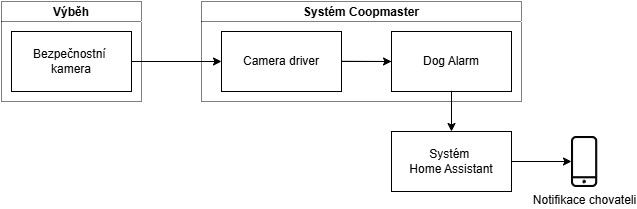
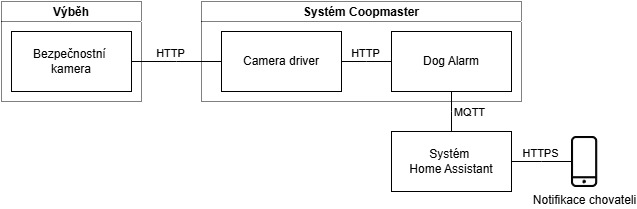
finálně nastřelený popis toho jak jednotlivé moduly spolupracují aby splnili požadavky dané uživatelskými storkami

diff --git a/doc-document-example/text1/text-03-prakticka.tex b/doc-document-example/text1/text-03-prakticka.tex
@@ -22,18 +22,32 @@ Rozhodlo se tedy, že aplikace bude uživateli poskytovat následující funkce
     \item Poskytování dat o teplotě a vlhkosti
 \end{itemize}
 
+\newpage
 \section{Návrh architektury a volba technologií}\label{sec:navrh-architektury-a-volba-technologii}
 Díky tomu, že si přesně určíme, kdo je cílový uživatel naší aplikace, a k tomu dáme do hromady, co uživatel od naší aplikace očekává.
 Jsme tedy nyní schopni bez větších problémů teoreticky navrhnout architekturu našeho systému a přesně popsat požadovanou funkcionalitu, jakou budou disponovat jeho jednotlivé části.
 Tato sekce se bude zabývat analýzou a návrhem architektury systému Coopmaster dle požadavků ze sekce~\ref{sec:rozvrzeni-person}.
 
-\subsection{Architektura dle jednotlivých potřeb uživatele}\label{subsec:microservices}
+\subsection{Šlužby dle jednotlivých potřeb uživatele}\label{subsec:microservices}
 Jako teoretický model na základě kterého, budeme organizovat a třídit funkcionalitu, jsem zvolil mikroservisní architekturu(sekce~\ref{sec:microservice-architecture}).
-Tento způsob rozvržení zodpovědnosti částí systému jsem zvolil, díky velké možnosti rozšíření, zapouzdření funkcionality a snadné úpravě jednotlivých služeb bez nutnosti kompletního restartu systému případně znovunasazení.
+Tento způsob rozvržení zodpovědnosti částí systému jsem zvolil, díky velké možnosti rozšíření, zapouzdření funkcionality a snadné úpravě jednotlivých služeb bez nutnosti kompletního restartu systému případně znovunasazení.\newline
 Jako programovací jazyk pro tvorbu služeb je zvolen programovací jazyk Python(sekce~\ref{sec:python}).
-Python byl vybrán kvůli jeho univerzálnosti, snadné syntaxi a podpoře ze strany vývojářů a komunity.
-Pro realizaci, konfiguraci a síťování mikroservistní architektury je použit Docker Engine(sekce~\ref{sec:kontejnerizace}) společně s rozšířením Docker Compose.
-%\subsubsection{Zjednodušení implementace uživatelského rozhraní a automatizace úkolů}
+Python byl vybrán kvůli jeho univerzálnosti, snadné syntaxi a podpoře ze strany vývojářů a komunity.\newline
+Pro realizaci, konfiguraci a síťování mikroservistní architektury je použit Docker Engine(sekce~\ref{sec:kontejnerizace}) společně s rozšířením Docker Compose.\newline
+Na základě předchozích rozhodnutí jsem tedy systém rozdělil do jednotlivých mikroslužeb, tak aby vznikla robustní a rozšiřitelná mikroservisní architektura a byly splněny všechyn uživatelské požadavky, které jsme si určili (\ref{sec:rozvrzeni-person}).\newline
+Bylo tedy navrženo 8 služeb, které obsahují námi naprogramovanou funkcionalitu a dohromady společně s hardwarovými prvky tvoří systém Coopmaster.
+\begin{itemize}
+    \item Camera driver (\ref{subsec:camera-driver})
+    \item Scale driver (\ref{subsec:scale-driver})
+    \item Room driver (\ref{subsec:room-driver})
+    \item Health checker (\ref{subsec:health-checker})
+    \item Room assistant (\ref{subsec:room-assistant})
+    \item Nest watcher (\ref{subsec:nest-watcher})
+    \item Dog alarm (\ref{subsec:dog-alarm})
+    \item Chicken watch guard (\ref{subsec:chicken-watch-guard})
+\end{itemize}
+
+\subsection{Systému pro uživatelské rozhraní a automatizaci}\label{subsec:systemu-pro-uzivatelske-rozhrani-a-automatizaci}
 Podstatnou otázkou bylo, zda se pouštět do tvorby kompletně vlastního systému pro uživatelského rozhraní a automatizaci.
 Po zvážení časové náročnosti, technologické náročnosti a komplexnosti takového systému, mi bylo jasné, že tudy cesta nepovede.
 Bylo tedy třeba najít open source systém, který již touto funkcionalitou disponuje.
@@ -41,62 +55,14 @@ Nakonec jsem zvolil systém Home Assistant, protože jsem s ním již dříve pr
 Home Assistant má na internetu také rozsáhlou podporu a komunitu s množstvým nápadů a již hotových řešení pro inspiraci.
 Popis toho, jak je nakonfigurováno uživatelské rozhraní v Home Assistantovi, je popsáno v sekci~\ref{subsec:tvorba-gui-rozhrani}.
 
-\subsubsection{Ovládání světla a poskytování dat o teplotě a vlhkosti}
-%todo popis proč a jak to plní uživatelskou storku, popis jaké jsou vazby, jak jednotlivé moduly spolupracují, vysvětlení jak jsem se dobral k tomuto řešení
-Jsou použity částí Řídící jednotka, Moduly systému Coopmaster(Room Driver a Room Assistant) a systém Home Assistant.
-\begin{figure}[h]
-    \centering
-    \includegraphics[width=\textwidth]{img/svetlo_teplo_vlhkost}
-    \caption{Mechanismus pro ovládání světla a poskytování dat o teplotě a vlhkosti}
-    \label{fig:svetlo_teplo_vlhkost}
-\end{figure}
-\subsubsection{Automatizace dvířek}
-%todo popis proč a jak to plní uživatelskou storku, popis jaké jsou vazby, jak jednotlivé moduly spolupracují, vysvětlení jak jsem se dobral k tomuto řešení
-Jsou použity částí Kamerový systém, Elektrická dvířka, Moduly systému Coopmaster(Camera Driver, Chicken Watch Guard, Room Driver a Room Assistant) a systém Home Assistant.
-\begin{figure}[h]
-    \centering
-    \includegraphics[width=\textwidth]{img/automatizace_dvirek}
-    \caption{Mechanismus bezpečného zavření dvířek}
-    \label{fig:automatizace_dvirek}
-\end{figure}
-\subsubsection{Detekce vetřelců}
-%todo popis proč a jak to plní uživatelskou storku, popis jaké jsou vazby, jak jednotlivé moduly spolupracují, vysvětlení jak jsem se dobral k tomuto řešení
-Jsou použity částí Kamerový systém, Moduly systému Coopmaster(Camera Driver a Dog Alarm) a systém Home Assistant.
-\begin{figure}[h]
-    \centering
-    \includegraphics[width=\textwidth]{img/detekce_vetrelcu}
-    \caption{Mechanismus detekce vetřelců}
-    \label{fig:detekce_vetrelcu}
-\end{figure}
-\subsubsection{Vizualizace stavů hnízd}
-%todo popis proč a jak to plní uživatelskou storku, popis jaké jsou vazby, jak jednotlivé moduly spolupracují, vysvětlení jak jsem se dobral k tomuto řešení
-Jsou použity částí Digitální Váha, Moduly systému Coopmaster(Scale Driver a Nest Watcher) a systém Home Assistant.
-\begin{figure}[h]
-    \centering
-    \includegraphics[width=\textwidth]{img/vizualizace_stavu_hnizd}
-    \caption{Mechanismus vizualizace stavů hnízd}
-    \label{fig:vizualizace_stavu_hnizd}
-\end{figure}
-%Na základě určeného způsobu zapouzdření funkcionality je architektura rozdělena do následujících služeb, které jsou pojmenovány dle jejich účelu
-%\begin{itemize}
-%    \item Camera driver
-%    \item Scale driver
-%    \item Room driver
-%    \item Health checker
-%    \item Room assistant
-%    \item Nest watcher
-%    \item Dog alarm
-%    \item Chicken watch guard
-%\end{itemize}
-
 \subsection{Komunikace mezi Backendem a Frontendem}\label{subsec:komunikace-mezi-backendem-a-frontendem}
-Je třeba zajistit komunikaci mezi Home Assistantem a Službami.
+Je třeba zajistit komunikaci mezi Home Assistantem a Coopmaster službami.
 Tuto úlohu musíme přijmout velice zodpovědně a navrhnout řešení, které půjde opět snadno rozšířit a modifikovat.
 Nelze proto použít klasické HTTP(sekce~\ref{sec:http-rest}), z toho důvodu že bychom komunikaci vázali na buď doménové jméno a port nebo ip adresu a port.
 Toto řešení má problém v tom, že pokud bychom potřebovali změnit, buď umístění částí služeb nebo port jedné ze služeb, bylo by třeba překonfigurovat i home assistanta.
 Dalším problém nastane, když potřebujeme z některé ze služeb poslat například notifikaci do Home Assistanta, je pro to potřeba, aby jednotlivé služby věděli, kde na síti Home Assistant běží, což je věc, která se může měnit, a museli bychom naopak přenastavovat jednotlivé služby.
 Jako řešení se nabízí použít messaging konkrétně třeba technologii MQTT(sekce~\ref{sec:mqtt}).
-Tato technologie se běžně používá u IoT zařízení a pro naše použití bude vynikajícím řešením.
+Tato technologie se běžně používá u IoT zařízení a pro naše použití je vynikajícím řešením.
 
 \subsection{Hardwarová zařízení}\label{subsec:hardwarova-zarizeni}
 Tuto sekci je velmi důležité dobře a správně navrhnout, protože náš systém bude pracovat s daty z reálného světa.
@@ -108,6 +74,7 @@ Musíme tedy navrhnout a realizovat několik zařízení, která společně budo
     \item snímání teploty a vlhkosti
     \item snímání scén v kurníku a ve výběhu
 \end{itemize}
+
 \subsubsection{Snímání stavů hnízd}
 Všechny případy, které potřebujeme v kontextu našeho hnízda řešit se dají rozpoznat na základě hmotnosti hnízda.
 Pokud je v hnízdě slepice, hnízdo bude hodně zatížené oproti počátečnímu prázdnému stavu.
@@ -132,6 +99,84 @@ Na základě předchozí analýzy je vhodné použít venkovní ip kameru.
 Ip kamera s dostatečným krytím, dobrou kvalitou obrazu a velkým zorným polem bude snadná na instalaci, je cenově dostupná a poskytuje dostatečně kvalitní data pro naše použití při detekci objektů.
 Podrobnosti ohledně výběru kamery se nachází v sekci~\ref{subsec:kamerovy-system}
 
+\subsection{Spolupráce modulů dle požadavků uživatele}\label{subsec:schematicka-vyjadreni-zavislosti-jednotlivych-modulu}
+
+\subsubsection{Ovládání světla, data o teplotě a vlhkosti}
+Tato sekce je důležitá pro chovatele, aby měl na dálku přehled o podmínkách v kurníku, a to převážně o teplotě.
+Dalším z požadavkům bylo dálkové ovládání a automatizace světla čehož se tato sekce také dotýká.
+Graficky jsou použité moduly a jejich závislosti vyjádřeny v obrázku~\ref{fig:svetlo_teplo_vlhkost}.\newline
+Fyzický prvek, který dokáže ovládat světlo a zpřístupňuje systému informace o teplotě a vlhkosti, je Řídící jednotka.
+Ta je přes usb sběrnici propojena s Room Driverem, který je již součástí docker composu Coopmasteru.
+Room Driver je použit jako mezičlen pro komunikaci mezi hardwarovými prvky a výkonným kódem.
+Výkonný kód se nachází ve službě Room Assistant.
+Room Assistant je s Room Driverem propojen pomocí HTTP protokolu a dále komunikuje se systémem Home Assistant díky messagingovému protokolu MQTT.
+Home Assistant v této sekci poskytuje uživateli data o teplotě, vlhkosti a stavu světla.
+Uživatel pak může za pomoci Home Assistanta vysílat požadavky na změnu stavu světla.
+Data o teplotě a vlhkosti Room Assistant aktualizuje každých 10 vteřin.
+\begin{figure}[h]
+    \centering
+    \includegraphics[width=\textwidth]{img/svetlo_teplo_vlhkost}
+    \caption{Diagram ovládání světla a poskytování dat o teplotě a vlhkosti}
+    \label{fig:svetlo_teplo_vlhkost}
+\end{figure}
+
+\subsubsection{Automatizace dvířek}
+Hlavním z důvodů proč vznikl tento projekt, je zautomatizování raního otevírání a večerního zavírání dvířek v kurníku.
+V této sekci si tedy zjednodušeně popíšeme princip, jak je v systému Coopmaster řešené automatické ovládání dvířek.
+Graficky jsou závislosti mezi jednotlivými moduly vysvětleny v obrázku~\ref{fig:automatizace_dvirek}.\newline
+Dvířka v našem systému jsou kontrolována pomocí modulu Řídící jednotka.
+Room Driver zajišťuje pomocí USB sběrnice a HTTP protokolu komunikaci mezi Řídící jednotkou a Room Assistantem.
+Room Assistant je jak již bylo zmíněno propojen se systémem Home Assistant pomocí MQTT protokolu.
+Dále v této sekci potřebujeme získat data z kamerového systému konkrétně z kamery v kurníku.
+Komunikaci s kamerovým systémem zajišťuje přes HTTP protokol modul Camera Driver.
+Tento modul má vystavené RESTové api a poskytuje obrázky službám v systému Coopmaster.
+O obrázky si zde říká služba Chicken Watch Guard, která za pomocí neuronové sítě konkrétně pak metody klasifikace počítá slepice v kurníku a výsledný počet posílá opět pomocí MQTT do Home Assistanta.
+Chicken Watch Guard také předává co minutu do systému Home Assistant obrázek z kamery v kurníku.
+Home Assistant pro tuto sekci zajišťuje indikaci stavu dvířek, ovládací tlačítka pro dvířka, vizualizaci počtu slepic v kurníku a zobrazuje fotografii pořízenou v kurníku.
+Hlavním důvodem, proč je v projektu použit Home Assistant, je jeho funkcionaliza pro automatizaci různých operací.
+Zde je toho právě využito pro automatizaci zavírání a otevírání dvířek.
+Home Assistant je nakonfigurován tak, aby se od určitého časového okamžiku snažil zavřít dvířka pod podmínkou, že bude počet slepic, který identifikoval Chicken Watch Guard, stejný jako ten, jež jsme nastavili jako pevnou konstantu neboli aktuální počet slepic v kurníku.
+\begin{figure}[h]
+    \centering
+    \includegraphics[width=\textwidth]{img/automatizace_dvirek}
+    \caption{Diagram bezpečného zavření dvířek}
+    \label{fig:automatizace_dvirek}
+\end{figure}
+
+\subsubsection{Detekce vetřelců}
+Pro tento úkol bude třeba využít obrázků s kamery ve výběhu a umělé inteligence, která v obraze rozpozná určené vetřelce.
+Princip komunikace je graficky vysvětlen v obrázku~\ref{fig:detekce_vetrelcu}.\newline
+S kamerou ve výběhu komunikuje pomocí HTTP protokolu služba Camera Driver.
+Z REST aplikačního rozhraní služby si stahuje obrázku služba Dog Alert.
+Tato služba využívá neuronovou síť k detekci vetřelce v obraze.
+Pokud detekováno nějaké nebezpečí, služba pomocí MQTT protokolu informuje systém Home Assistant a předá mu aktuální fotografii v níž byl vetřelec detekován jako důkaz.
+Home Assistant je nastaven tak, že při přijetí takové zprávy, odešle uživateli do aplikace v mobilním telefonu oznámení, aby ho upozornil na detekci hrozby.
+Dog Alarm dále pak každou minutu posílá do Home Assistanta aktuální snímek z kamery ve výběhu, aby měl uživatel stále přehled.
+\begin{figure}[h]
+    \centering
+    \includegraphics[width=\textwidth]{img/detekce_vetrelcu}
+    \caption{Diagram detekce vetřelců}
+    \label{fig:detekce_vetrelcu}
+\end{figure}
+
+\subsubsection{Vizualizace stavů hnízd}
+Abychom splnili tento úkol, bude potřeba získat data z jednotlivých vah ve hnízdech.
+Tato data pak dostat z do systému Coopmaster.
+Coopmaster následně data vyhodnotí a výsledky předá k vizualizaci do systému Home Assistant.
+Schémadické vyjádření principu pro vizualizaci stavů hnízd je znázorněno v obrázku~\ref{fig:vizualizace_stavu_hnizd}. \newline
+Pro komunikaci s modulem Digitální váha je použita služba Scale Driver, která s jednotlivými váhami komunikuje přes USB sběrnici.
+Data o váhách si ze Scale Driveru stahuje služba Nest Watcher.
+Tato služba ukládá v daném intervalu data z každé váhy do databáze.
+Služba po uplinutí časové konstanty analyzuje časovou řadu v databazi a vyhodnotí stav hnízda.
+Detailní popis algoritmu v sekci o službě Nest Watcher (\ref{subsec:nest-watcher}).
+Po vyhodnocení stavů jsou data předávány pomocí MQTT protokolu do systému Home Assistant, který je díky na míru dělané komponentě zobrazí uživateli.
+\begin{figure}[h]
+    \centering
+    \includegraphics[width=\textwidth]{img/vizualizace_stavu_hnizd}
+    \caption{Diagram vizualizace stavů hnízd}
+    \label{fig:vizualizace_stavu_hnizd}
+\end{figure}
+
 \subsection{Zpřístupnění aplikace z internetu}\label{subsec:zpristupneni-aplikace-z-internetu}
 Aby systém mohl sloužit svému účelu musí být vzdáleně přístupný.
 To znamená, že server, na kterém systém poběží, musí mít veřejnou ip adresu a v ideálním případě mít tuto adresu propojenou s doménovým názvem pro snadnější použití.
@@ -154,6 +199,7 @@ Ceny domén se odvíjí na základě jejího druhu a pohybují od 20 do 1500 kor
 My v našem řešení využíváme službu Forpsi, protože s ní máme již předchozí zkušenost.\newline
 Dále je tato část rozvedena v sekci~\ref{sec:nasazeni-do-kurniku}, kde je popsán konkrétní způsob nasazení do funkčního projektu.
 
+\newpage
 \section{Popis jednotlivých modulů systému}\label{sec:popis-jednotlivych-modulu}
 
 \input{text1/text-300-camera-driver}
@@ -195,6 +241,7 @@ Dále je tato část rozvedena v sekci~\ref{sec:nasazeni-do-kurniku}, kde je pop
 - verzuje se to na github
 - na githubu běží workflow které vytváří jednolivé docker image pro každý modul a uploaduje je na můj docker hub kvůli snadnému deployi a distribuci po internetu
 
+\newpage
 \section{První pracovní zapojení a běh}\label{sec:prvni-pracovni-zapojeni-a-beh}
 - zjistilo se že bez poe je to špatná volba \newline
 - kamery žerou dost proudu\newline
@@ -202,7 +249,7 @@ Dále je tato část rozvedena v sekci~\ref{sec:nasazeni-do-kurniku}, kde je pop
 - byl problém s kontakty na váze takže se nakonec museli vyměnit lisované za pájené\newline
 - na stole to většinou funguje dobře \newline
 
-
+\newpage
 \section{Nasazení do kurníku}\label{sec:nasazeni-do-kurniku}
 - bylo potřeba natahat elektřinu a internet \newline
 - elektřina nebyla problém vzala se z kůlny zkrz díru ve zdi\newline
@@ -217,7 +264,7 @@ Dále je tato část rozvedena v sekci~\ref{sec:nasazeni-do-kurniku}, kde je pop
 - celé je to propojené s rpi 5 které to v kurníku řídí a s ním pak komunikuje nuc pomocí tail scailu ale to zas v další kapitole\newline
 - bylo potřeba zkalibrovat hmotnosti slepic a vajec
 
-
+\newpage
 \section{Konfigurace vzdáleného přístupu}\label{sec:konfigurace-vzdaleneho-pristupu}
 - rpi propojene s nuckem a dev kompama přes tailscail\newline
 - v docker compose na nuckoj se vyrobila nová network jenom pro home assistanta a jeho propagaci na venek\newline
@@ -226,7 +273,7 @@ Dále je tato část rozvedena v sekci~\ref{sec:nasazeni-do-kurniku}, kde je pop
 - pronajmul jsem si doménu u doméhového registrátora forpsi\newline
 - zmínění jaká plynou nebezpečí z tohoto řešení
 
-
+\newpage
 \section{Rozvržení práce do budoucna}\label{sec:rozvrzeni-prace-do-budoucna}
 - jak by se řešení dalo zoptimalizovat\newline
 - vylepšení modelu pro classifykaci\newline
@@ -235,6 +282,6 @@ Dále je tato část rozvedena v sekci~\ref{sec:nasazeni-do-kurniku}, kde je pop
 - kontrola krmítka
 - implementace autonomního chování do Room Assistanta
 
-
+\newpage
 \section{Ekonomická stránka projektu}\label{sec:ekonomicka-stranka-projektu}
 

diff --git a/doc-document-example/document.tex b/doc-document-example/document.tex
@@ -79,9 +79,12 @@
 
     \input{text1/text-03-prakticka}
 
+    \newpage
     \input{text1/text-04-zamysleni}
 
+
     %%% Závěr
+    \newpage
     \input{text1/text-05-zaver}
 
     \printbibliography[title=Použitá Literatura]

diff --git a/doc-document-example/text1/text-350-ml-klasifikace-segmentace.tex b/doc-document-example/text1/text-350-ml-klasifikace-segmentace.tex
@@ -1,0 +1,2 @@
+\externaldocument{text-02-teoreticka}
+\subsection{Klasifikace a segmentace objektů pomocí strojového učení}\label{subsec:klasifikace-a-segmentace-objektu-pomoci-strojoveho-uceni}
